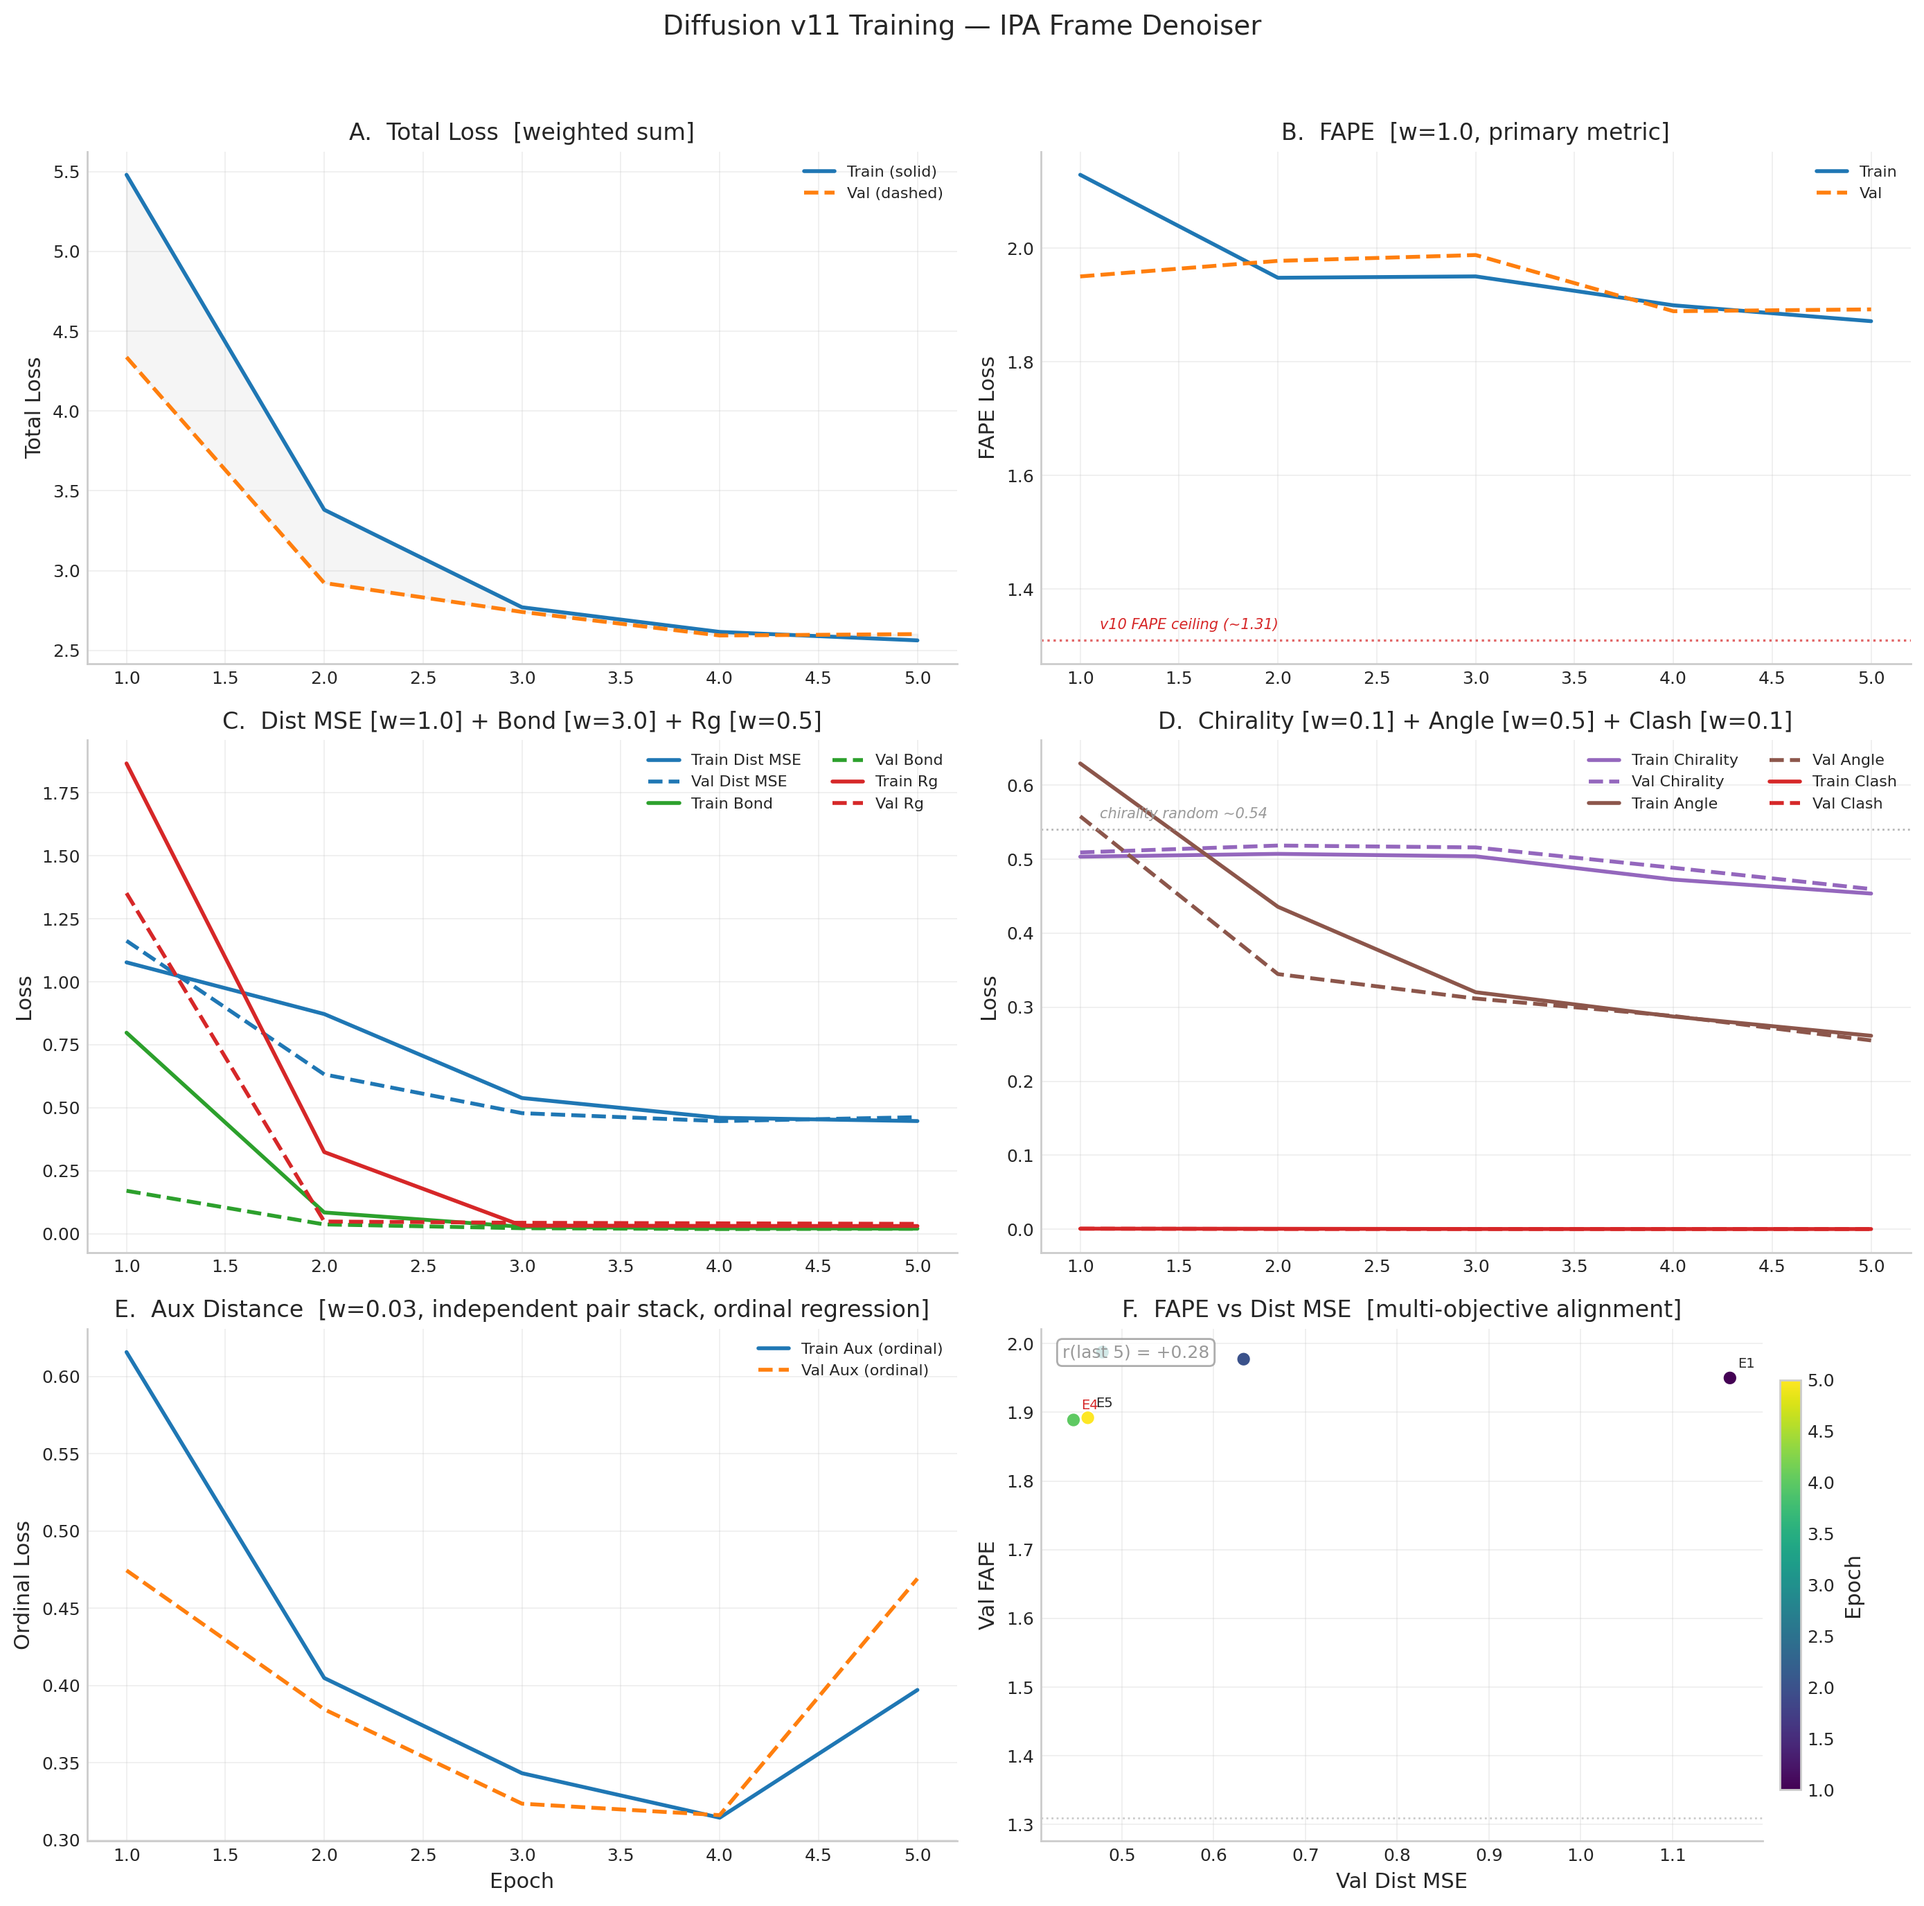
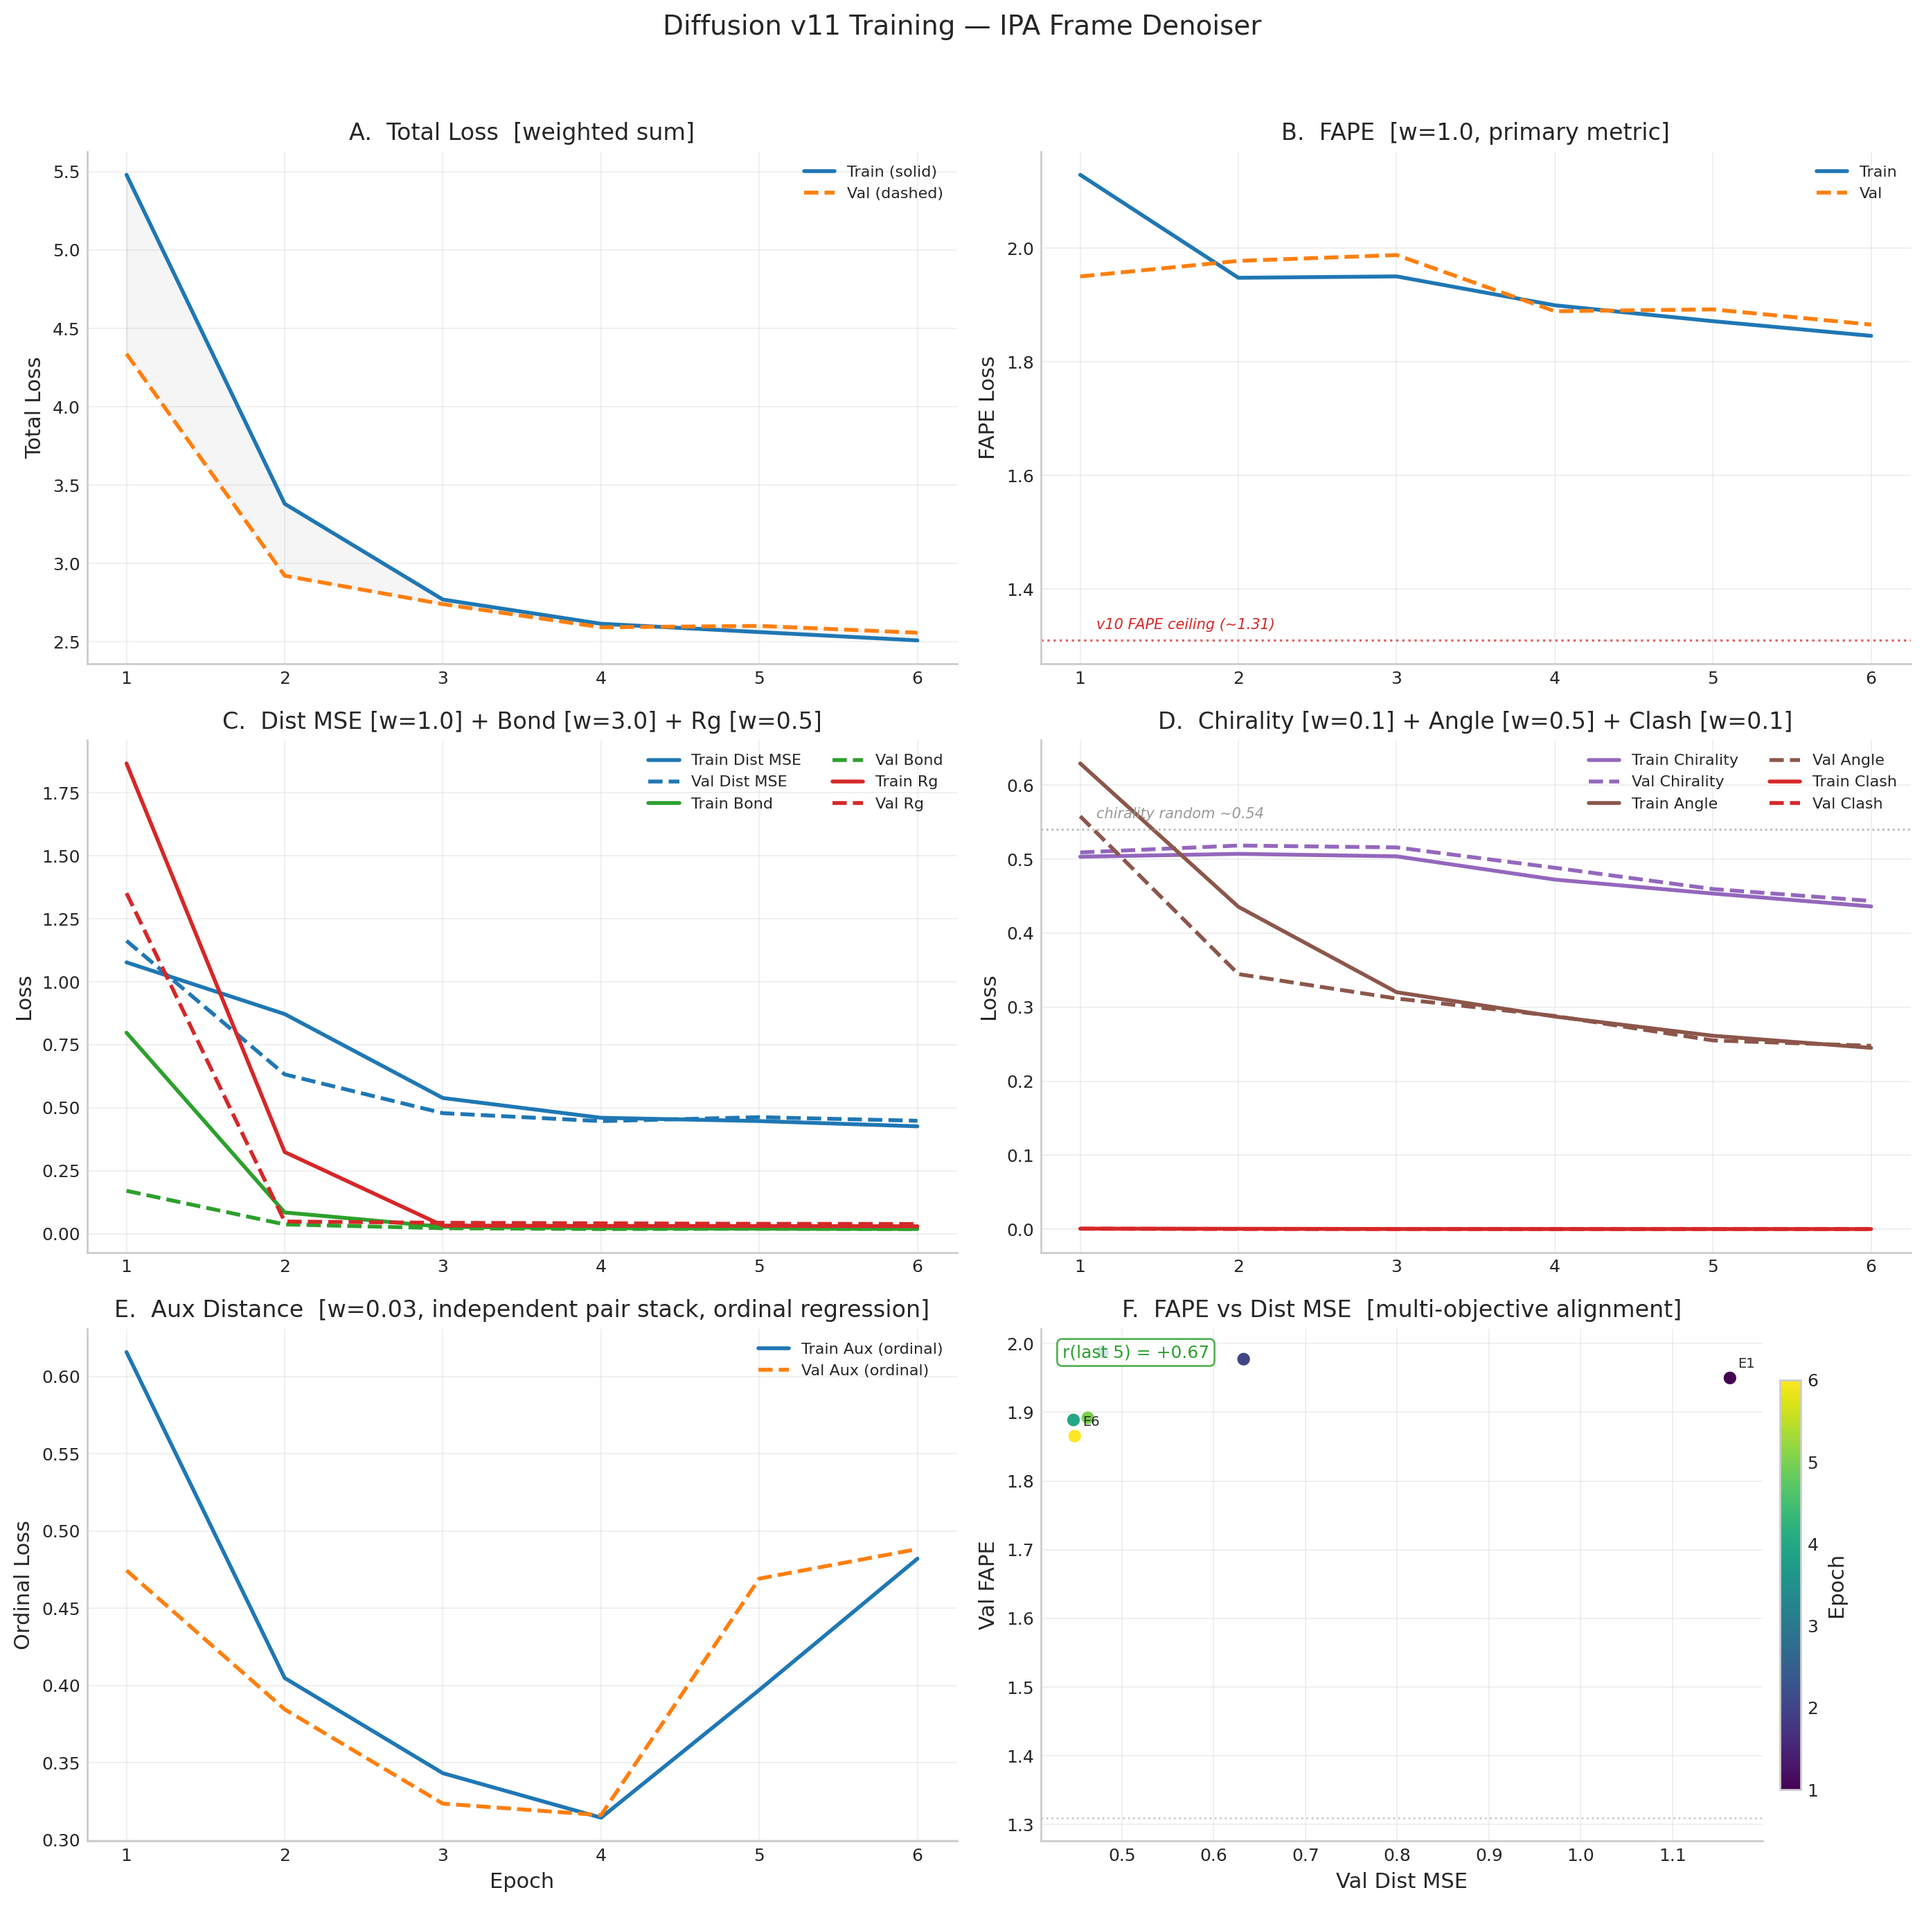
v11 E6: FAPE 1.865 NEW BEST, downtrend confirmed, pat reset 0/15

diff --git a/index.html b/index.html
@@ -1309,6 +1309,18 @@
                 <td>17.73&Aring;</td>
                 <td><span class="tag tag-pat">pat 1</span></td>
               </tr>
+              <tr>
+                <td>6</td>
+                <td>2.558</td>
+                <td>1.865</td>
+                <td>0.448</td>
+                <td>0.019</td>
+                <td>0.039</td>
+                <td>0.488</td>
+                <td>0.095</td>
+                <td>17.24&Aring;</td>
+                <td><span class="tag tag-best">NEW BEST</span></td>
+              </tr>
               <!-- New epochs will be added here by monitoring -->
             </tbody>
           </table>
@@ -1406,35 +1418,23 @@
 
         <!-- Status / Live interpretation -->
         <div class="training-pending-note" id="v9-run2-status">
-          <strong>v11 Epoch 5 &mdash; Phase 1 Checkpoint</strong>
+          <strong>v11 Epoch 6 &mdash; FAPE Downtrend Confirmed</strong>
           <ul style="margin: 6px 0 6px 18px; font-size: 0.95em;">
-            <li><strong>val FAPE: 1.950 &rarr; 1.988 &rarr; 1.889 &rarr; 1.892</strong> &mdash; E4 dipped to 1.889 (best), E5 flat at
-                1.892. FAPE is 3.1% below E1 &mdash; short of the 10% target by E5. However, train FAPE (1.871) is pulling ahead,
-                suggesting the model <em>is</em> learning frame consistency but hasn&rsquo;t generalized yet.</li>
-            <li><strong>val dist_mse: 1.163 &rarr; 0.447 &rarr; 0.463</strong> &mdash; slight uptick at E5 but 60% below E1. Distance
-                learning may be saturating in this early regime.</li>
-            <li><strong>val aux: 0.316 &rarr; 0.469</strong> &mdash; jumped up at E5. Ordinal regression loss increased by 48%.
-                Not v10-style exponential divergence (that reached 40+), but needs monitoring. Independent pair stack should
-                prevent catastrophic feedback, but feature distribution could be shifting.</li>
-            <li><strong>DDIM: TM = 0.088 (E4-E5), RMSD = 17.73&Aring;</strong> &mdash; stalled at E3&rsquo;s regression level.
-                Sampling quality hasn&rsquo;t recovered from E3&rsquo;s peak (TM=0.128). Concerning if this persists past E7.</li>
-            <li><strong>Patience: 1/15</strong> &mdash; first non-best epoch. val total 2.602 vs best 2.584.</li>
+            <li><strong>val FAPE: 1.950 &rarr; 1.988 &rarr; 1.889 &rarr; 1.892 &rarr; 1.865</strong> &mdash; NEW BEST. Clear downtrend
+                from E4 onward: 1.889 &rarr; 1.892 &rarr; 1.865. Now 4.4% below E1. Frame learning is real and accelerating.</li>
+            <li><strong>val dist_mse: 0.463 &rarr; 0.448</strong> &mdash; resuming improvement after E5 blip. 61% below E1.</li>
+            <li><strong>val aux: 0.469 &rarr; 0.488</strong> &mdash; slightly higher but stable. Not diverging (v10 was at 40+ by E6).</li>
+            <li><strong>DDIM: TM = 0.095, RMSD = 17.24&Aring;</strong> &mdash; slight recovery from 0.088 but still below E3 peak (0.128).
+                DDIM quality lags loss improvements; expect recovery as FAPE continues dropping.</li>
+            <li><strong>Patience: 0/15</strong> &mdash; reset after NEW BEST. val total 2.558.</li>
           </ul>
-          <strong>Hourly Analysis (E1&ndash;E5, ~1.5 hours elapsed):</strong>
-          <p style="font-size: 0.92em; line-height: 1.55; margin: 6px 0;">
-            The training is in a <em>transition phase</em>. E1&ndash;E3 showed rapid convergence of distance, bond, and compactness
-            losses (the &ldquo;easy wins&rdquo; phase). E4 gave the first FAPE improvement, suggesting frame learning is beginning.
-            E5 plateaued &mdash; this is normal: LR just reached peak and cosine decay is starting, and the model may need several
-            more epochs to consolidate frame learning before FAPE drops further. The aux loss jump at E5 needs watching but is not
-            yet alarming (v10&rsquo;s divergence was 10x worse by the same stage).
-            <br><br>
-            <strong>Tripwire status:</strong> FAPE at 3.1% below E1 vs 10% target by E5 &mdash; below target but showing the right
-            direction. Will escalate if FAPE hasn&rsquo;t reached 1.75 (~10% below E1) by E8. DDIM TM stalled at 0.088 &mdash; need
-            recovery above 0.10 by E7. Auto-resubmit working correctly (job 32385342 running E6).
-          </p>
+          <strong>Assessment:</strong> FAPE is now on a sustained downtrend (3 of last 4 epochs improving). The E5 plateau was
+          a blip, not a stall. At current rate (~0.03/epoch), FAPE should reach 1.75 (10% target) by ~E9. Train-val gap
+          is narrow (1.846 vs 1.865), indicating no overfitting. Aux loss stabilized at ~0.49 without exponential growth.
+          DDIM TM recovery is slow but losses are the more reliable signal. On track for continued improvement.
         </div>
         <div style="color: var(--text-secondary); font-size: 0.85em; margin-top: 8px;" id="v9-last-updated">
-          Last updated: 2026-03-09 11:30 UTC &mdash; E5 complete, E6 in progress (job 32385342)
+          Last updated: 2026-03-09 11:50 UTC &mdash; E6 complete
         </div>
 
         <!-- v10 Historical Results (collapsed) -->
